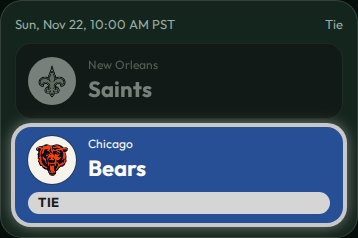
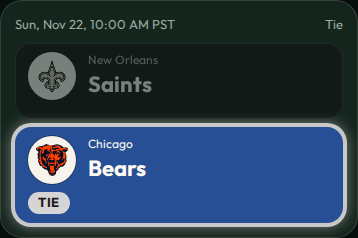
Keep a player signed in when browser storage is blocked.
Tokens fall back to memory for the visit, startup sends one bootstrap, and the result cards and history grid are easier to read.

diff --git a/src/styles.css b/src/styles.css
@@ -98,9 +98,9 @@ main {
   --team: var(--accent);
   --ink: var(--text);
   display: flex;
-  flex-wrap: wrap;
-  align-items: center;
-  gap: 8px 12px;
+  flex-direction: column;
+  align-items: stretch;
+  gap: 8px;
   width: 100%;
   min-height: 76px;
   text-align: left;
@@ -112,12 +112,19 @@ main {
   opacity: 0.5;
   filter: saturate(0.25) brightness(0.9);
 }
+.team-row {
+  display: flex;
+  align-items: center;
+  gap: 12px;
+  width: 100%;
+  min-width: 0;
+}
 .team-name { flex: 1 1 auto; min-width: 0; }
 .team small { display: block; color: var(--faint); font-size: 12px; }
 .team strong { font-size: 22px; color: var(--text); }
-.team .score { margin-left: auto; font-family: var(--display); font-size: 36px; }
+.team .score { margin-left: auto; flex: none; font-family: var(--display); font-size: 36px; }
 .pick-badge {
-  flex: 1 0 100%;
+  align-self: flex-start;
   width: max-content;
   max-width: 100%;
   margin: 0;
@@ -134,9 +141,10 @@ main {
   white-space: nowrap;
 }
 .pick-badge.right { background: #146c3a; color: #f4fff8; }
-.pick-badge.wrong { background: #9d1c28; color: #fff6f6; }
+.pick-badge.wrong { background: #fffaf0; color: #9f1239; }
 .pick-badge.tie { background: #d5d5d5; color: #1a1a1a; }
 .winner-mark {
+  flex: none;
   margin-left: 4px;
   padding: 1px 6px;
   border-radius: 999px;
@@ -169,13 +177,18 @@ main {
 }
 .team.selected.right .pick-badge { color: #f4fff8; }
 .team.selected.wrong {
-  opacity: 0.78;
-  filter: saturate(0.72);
+  opacity: 1;
+  filter: none;
   box-shadow:
-    0 0 0 4px #ff4d5a,
-    0 0 20px 3px rgba(255, 77, 90, 0.8);
+    0 0 0 4px #ff5a67,
+    0 0 20px 3px rgba(255, 90, 103, 0.85);
 }
-.team.selected.wrong .pick-badge { color: #fff6f6; }
+.team.selected.wrong .team-row { opacity: 0.85; }
+.team.selected.wrong .pick-badge {
+  opacity: 1;
+  background: #fffaf0;
+  color: #9f1239;
+}
 .team.selected.tie {
   box-shadow:
     0 0 0 4px #c8c8c8,
@@ -280,15 +293,9 @@ main {
 .standings button.me, .gridrow.me .sticky {
   background: color-mix(in srgb, var(--accent) 22%, var(--bg-elev));
 }
-.gridrow.me .sticky { padding-left: 14px; }
-.gridrow.me .sticky::before {
-  content: "";
-  position: absolute;
-  left: 0;
-  top: 0;
-  bottom: 0;
-  width: 4px;
-  background: var(--accent);
+.gridrow.me .sticky {
+  border-left: 4px solid var(--accent);
+  padding-left: 10px;
 }
 .standings button { display: grid; grid-template-columns: 72px 1fr auto; align-items: center; }
 .place { font-family: var(--display); font-size: 28px; }
@@ -493,17 +500,18 @@ main {
   .scroll-hint { display: none; }
   .gridwrap { overflow-x: auto; }
   .gridrow {
-    --name: 156px;
+    --name: 176px;
     width: 100%;
     min-width: 100%;
-    grid-template-columns: var(--name) repeat(var(--games), minmax(0, 1fr)) minmax(0, 1fr);
+    grid-template-columns: var(--name) repeat(var(--games), minmax(0, 1fr)) max-content;
   }
   .gridrow > div { padding: 4px 3px; }
   .sticky { padding-left: 10px; }
-  .gridrow.me .sticky { padding-left: 16px; }
-  .who-rank { font-size: 18px; }
-  .who-name { font-size: 17px; }
-  .who-pts { font-size: 26px; }
+  .gridrow.me .sticky { padding-left: 12px; }
+  .who-rank { font-size: 16px; }
+  .who-name { font-size: 18px; }
+  .who-pts { font-size: 28px; }
+  .gh.mnf, .cell.guess { padding-left: 10px; padding-right: 10px; }
   .gh { overflow: visible; }
   .gh b, .gh span { font-size: 13px; }
   .gh .logo-badge { width: 34px; height: 34px; }

diff --git a/src/lib/api.ts b/src/lib/api.ts
@@ -1,11 +1,17 @@
 import { createClient } from "@supabase/supabase-js";
+import { safeAuthStorage, safeGetItem, safeRemoveItem, safeSetItem } from "./storage";
 import type { Board, Boot, PlayerPage } from "./types";
 
 const url = import.meta.env.VITE_SUPABASE_URL;
 const key = import.meta.env.VITE_SUPABASE_ANON_KEY;
 
 export const supabase = createClient(url, key, {
-  auth: { persistSession: false, autoRefreshToken: false, detectSessionInUrl: false },
+  auth: {
+    persistSession: false,
+    autoRefreshToken: false,
+    detectSessionInUrl: false,
+    storage: safeAuthStorage,
+  },
 });
 
 async function call<T>(fn: string, args: Record<string, unknown>): Promise<T> {
@@ -18,23 +24,18 @@ export const PLAYER_KEY = "pickem.playerToken";
 export const ADMIN_KEY = "pickem.adminToken";
 
 export function readTokens(): { player: string; admin: string } {
-  try {
-    return {
-      player: localStorage.getItem(PLAYER_KEY) ?? "",
-      admin: localStorage.getItem(ADMIN_KEY) ?? "",
-    };
-  } catch {
-    return { player: "", admin: "" };
-  }
+  return {
+    player: safeGetItem(PLAYER_KEY) ?? "",
+    admin: safeGetItem(ADMIN_KEY) ?? "",
+  };
 }
 
 export function writeToken(kind: "player" | "admin", token: string) {
-  const key = kind === "player" ? PLAYER_KEY : ADMIN_KEY;
-  localStorage.setItem(key, token);
+  safeSetItem(kind === "player" ? PLAYER_KEY : ADMIN_KEY, token);
 }
 
 export function clearToken(kind: "player" | "admin") {
-  localStorage.removeItem(kind === "player" ? PLAYER_KEY : ADMIN_KEY);
+  safeRemoveItem(kind === "player" ? PLAYER_KEY : ADMIN_KEY);
 }
 
 export function bootstrap(player: string, admin: string) {

diff --git a/src/screens/Week.tsx b/src/screens/Week.tsx
@@ -170,13 +170,15 @@ export function WeekScreen({ boot, token }: { boot: Boot; token: string }) {
                       data-testid={`pick-${game.slot}-${team.id}`}
                       onClick={() => choose(game, team.id)}
                     >
-                      <Logo src={team.logo} size={36} />
-                      <span className="team-name">
-                        <small>{team.location}</small>
-                        <strong>{team.short_name}</strong>
+                      <span className="team-row">
+                        <Logo src={team.logo} size={36} />
+                        <span className="team-name">
+                          <small>{team.location}</small>
+                          <strong>{team.short_name}</strong>
+                        </span>
+                        {!selected && winner && <span className="winner-mark">W</span>}
+                        {score != null && <b className="score">{score}</b>}
                       </span>
-                      {!selected && winner && <span className="winner-mark">W</span>}
-                      {score != null && <b className="score">{score}</b>}
                       {selected && !decided && <em className="pick-badge">Your pick ✓</em>}
                       {selected && decided && game.is_tie && <em className="pick-badge tie">Tie</em>}
                       {selected && decided && !game.is_tie && winner && <em className="pick-badge right">✓ Right</em>}

diff --git a/src/lib/storage.ts b/src/lib/storage.ts
@@ -1,0 +1,54 @@
+const memory = new Map<string, string>();
+let memoryOnly = false;
+
+function storageBlocked(): boolean {
+  if (memoryOnly) return true;
+  try {
+    const probe = "__pickem_storage__";
+    localStorage.setItem(probe, "1");
+    localStorage.removeItem(probe);
+    sessionStorage.setItem(probe, "1");
+    sessionStorage.removeItem(probe);
+    return false;
+  } catch {
+    memoryOnly = true;
+    return true;
+  }
+}
+
+/** localStorage when it works, otherwise memory for this visit. */
+export function safeGetItem(key: string): string | null {
+  if (storageBlocked()) return memory.get(key) ?? null;
+  try {
+    return localStorage.getItem(key);
+  } catch {
+    memoryOnly = true;
+    return memory.get(key) ?? null;
+  }
+}
+
+export function safeSetItem(key: string, value: string) {
+  memory.set(key, value);
+  if (storageBlocked()) return;
+  try {
+    localStorage.setItem(key, value);
+  } catch {
+    memoryOnly = true;
+  }
+}
+
+export function safeRemoveItem(key: string) {
+  memory.delete(key);
+  if (storageBlocked()) return;
+  try {
+    localStorage.removeItem(key);
+  } catch {
+    memoryOnly = true;
+  }
+}
+
+export const safeAuthStorage = {
+  getItem: (key: string) => safeGetItem(key),
+  setItem: (key: string, value: string) => { safeSetItem(key, value); },
+  removeItem: (key: string) => { safeRemoveItem(key); },
+};

diff --git a/src/App.tsx b/src/App.tsx
@@ -54,6 +54,7 @@ export function App() {
   const [boot, setBoot] = useState<Boot | null>(null);
   const [error, setError] = useState("");
   const requestId = useRef(0);
+  const inflightKey = useRef<string | null>(null);
 
   const load = useCallback(async () => {
     const link = linkFromHash(location.hash);
@@ -61,6 +62,9 @@ export function App() {
     // The link is not stored yet. A tokenless bootstrap here would race the real one.
     if (link.player && next.player !== link.player) return;
     if (link.admin && next.admin !== link.admin) return;
+    const key = `${next.player}\n${next.admin}`;
+    if (inflightKey.current === key) return;
+    inflightKey.current = key;
     const mine = ++requestId.current;
     try {
       const data = await bootstrap(next.player, next.admin);
@@ -74,6 +78,8 @@ export function App() {
     } catch (reason) {
       if (mine !== requestId.current) return;
       setError(reason instanceof Error ? reason.message : "Could not reach the pool");
+    } finally {
+      if (inflightKey.current === key) inflightKey.current = null;
     }
   }, []);
 
